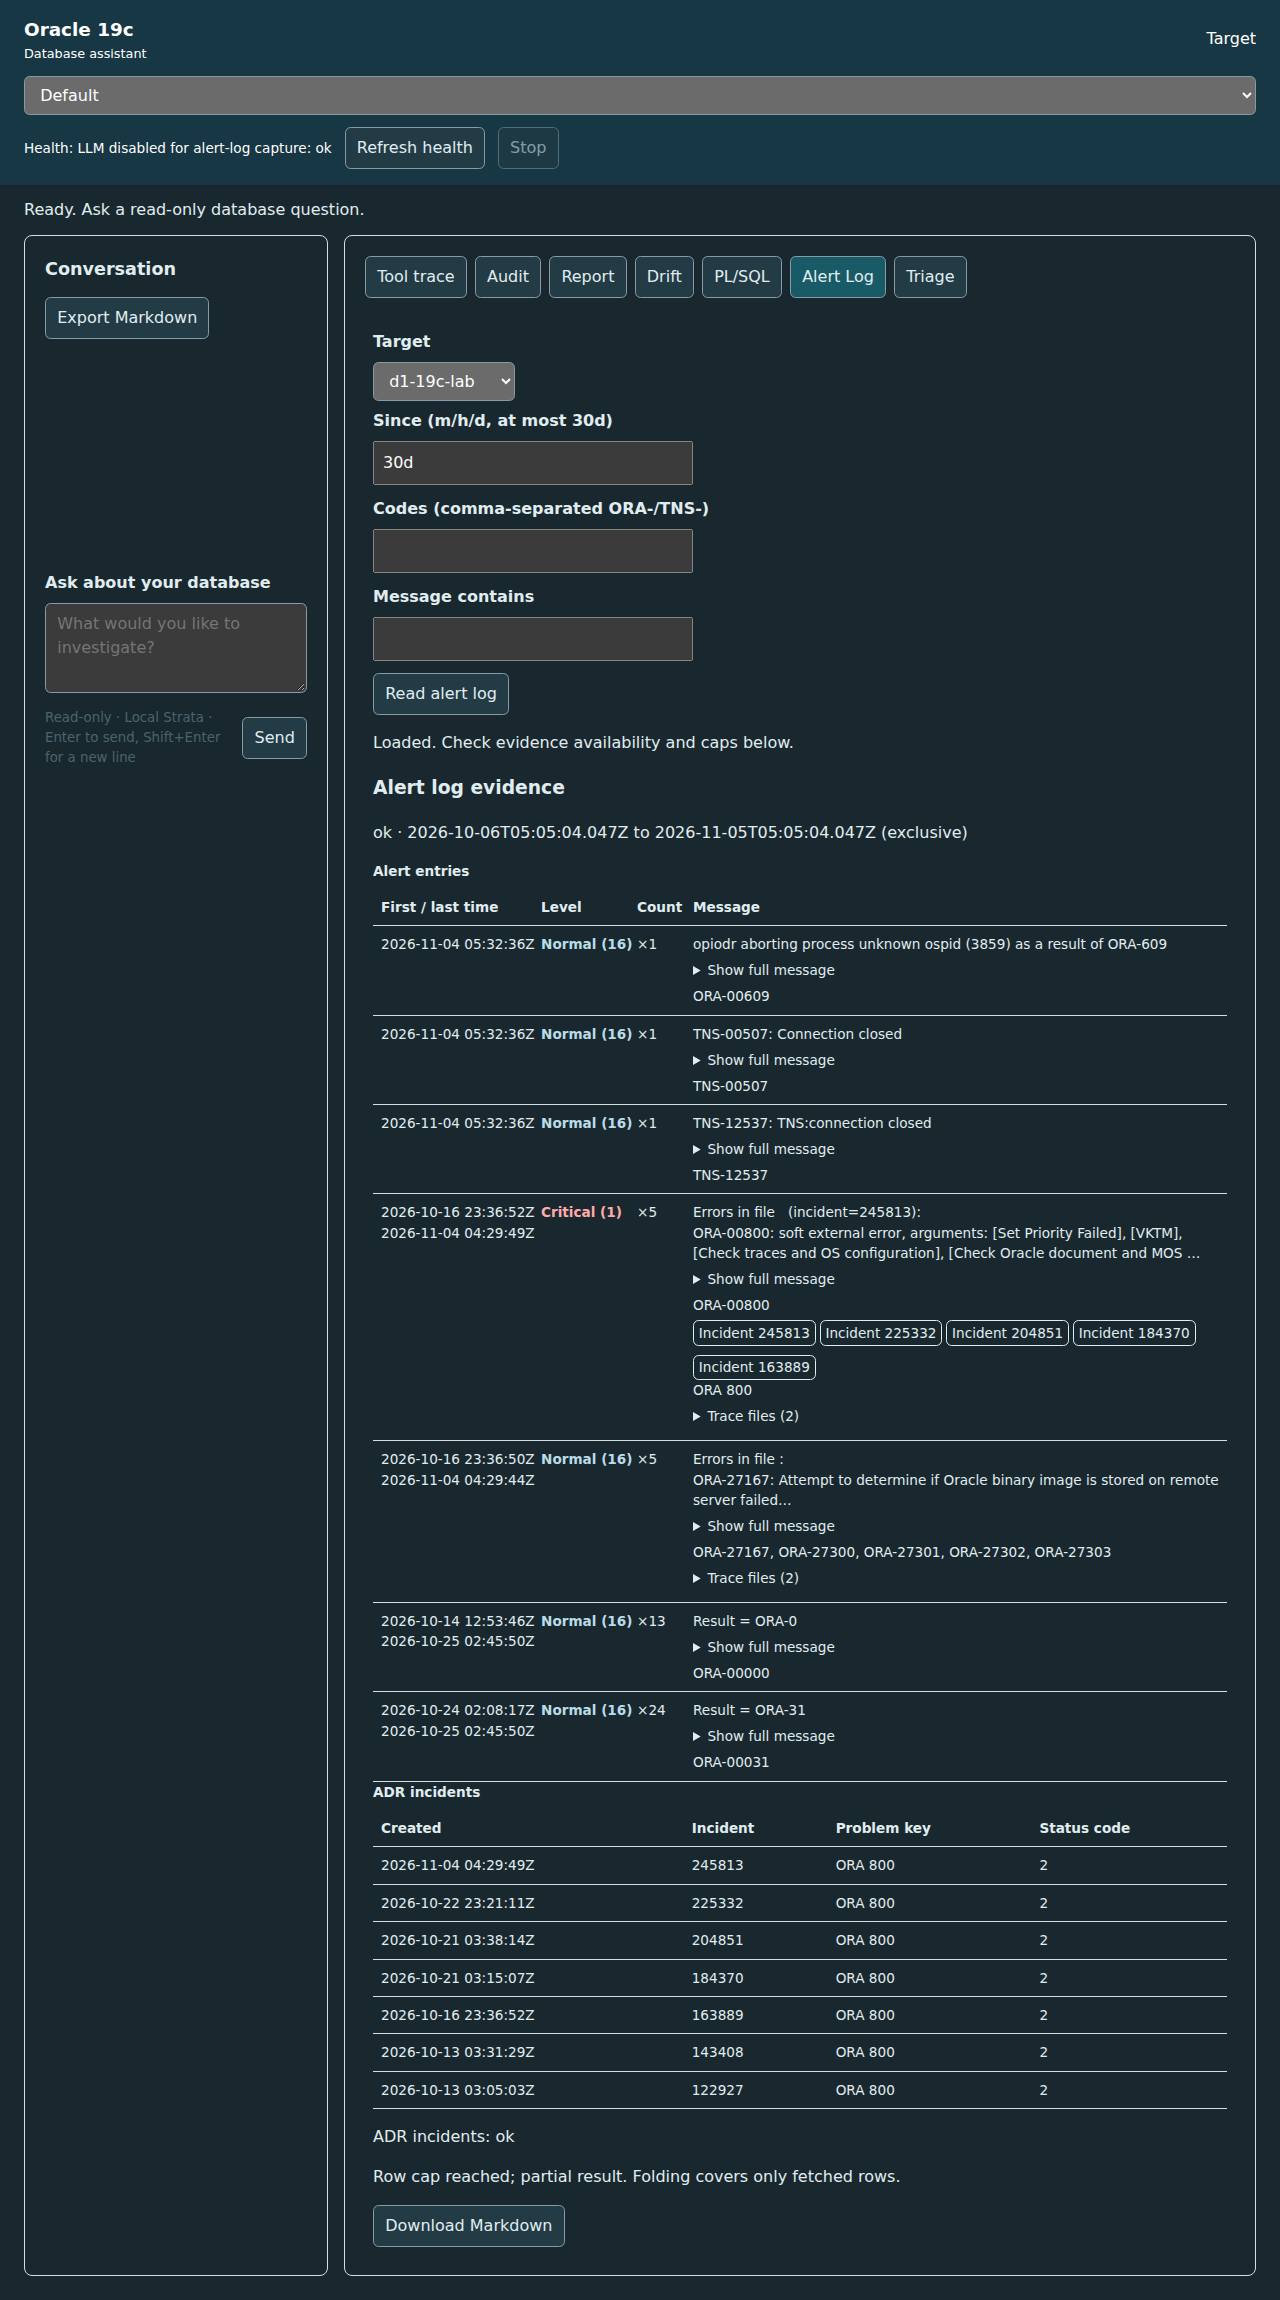
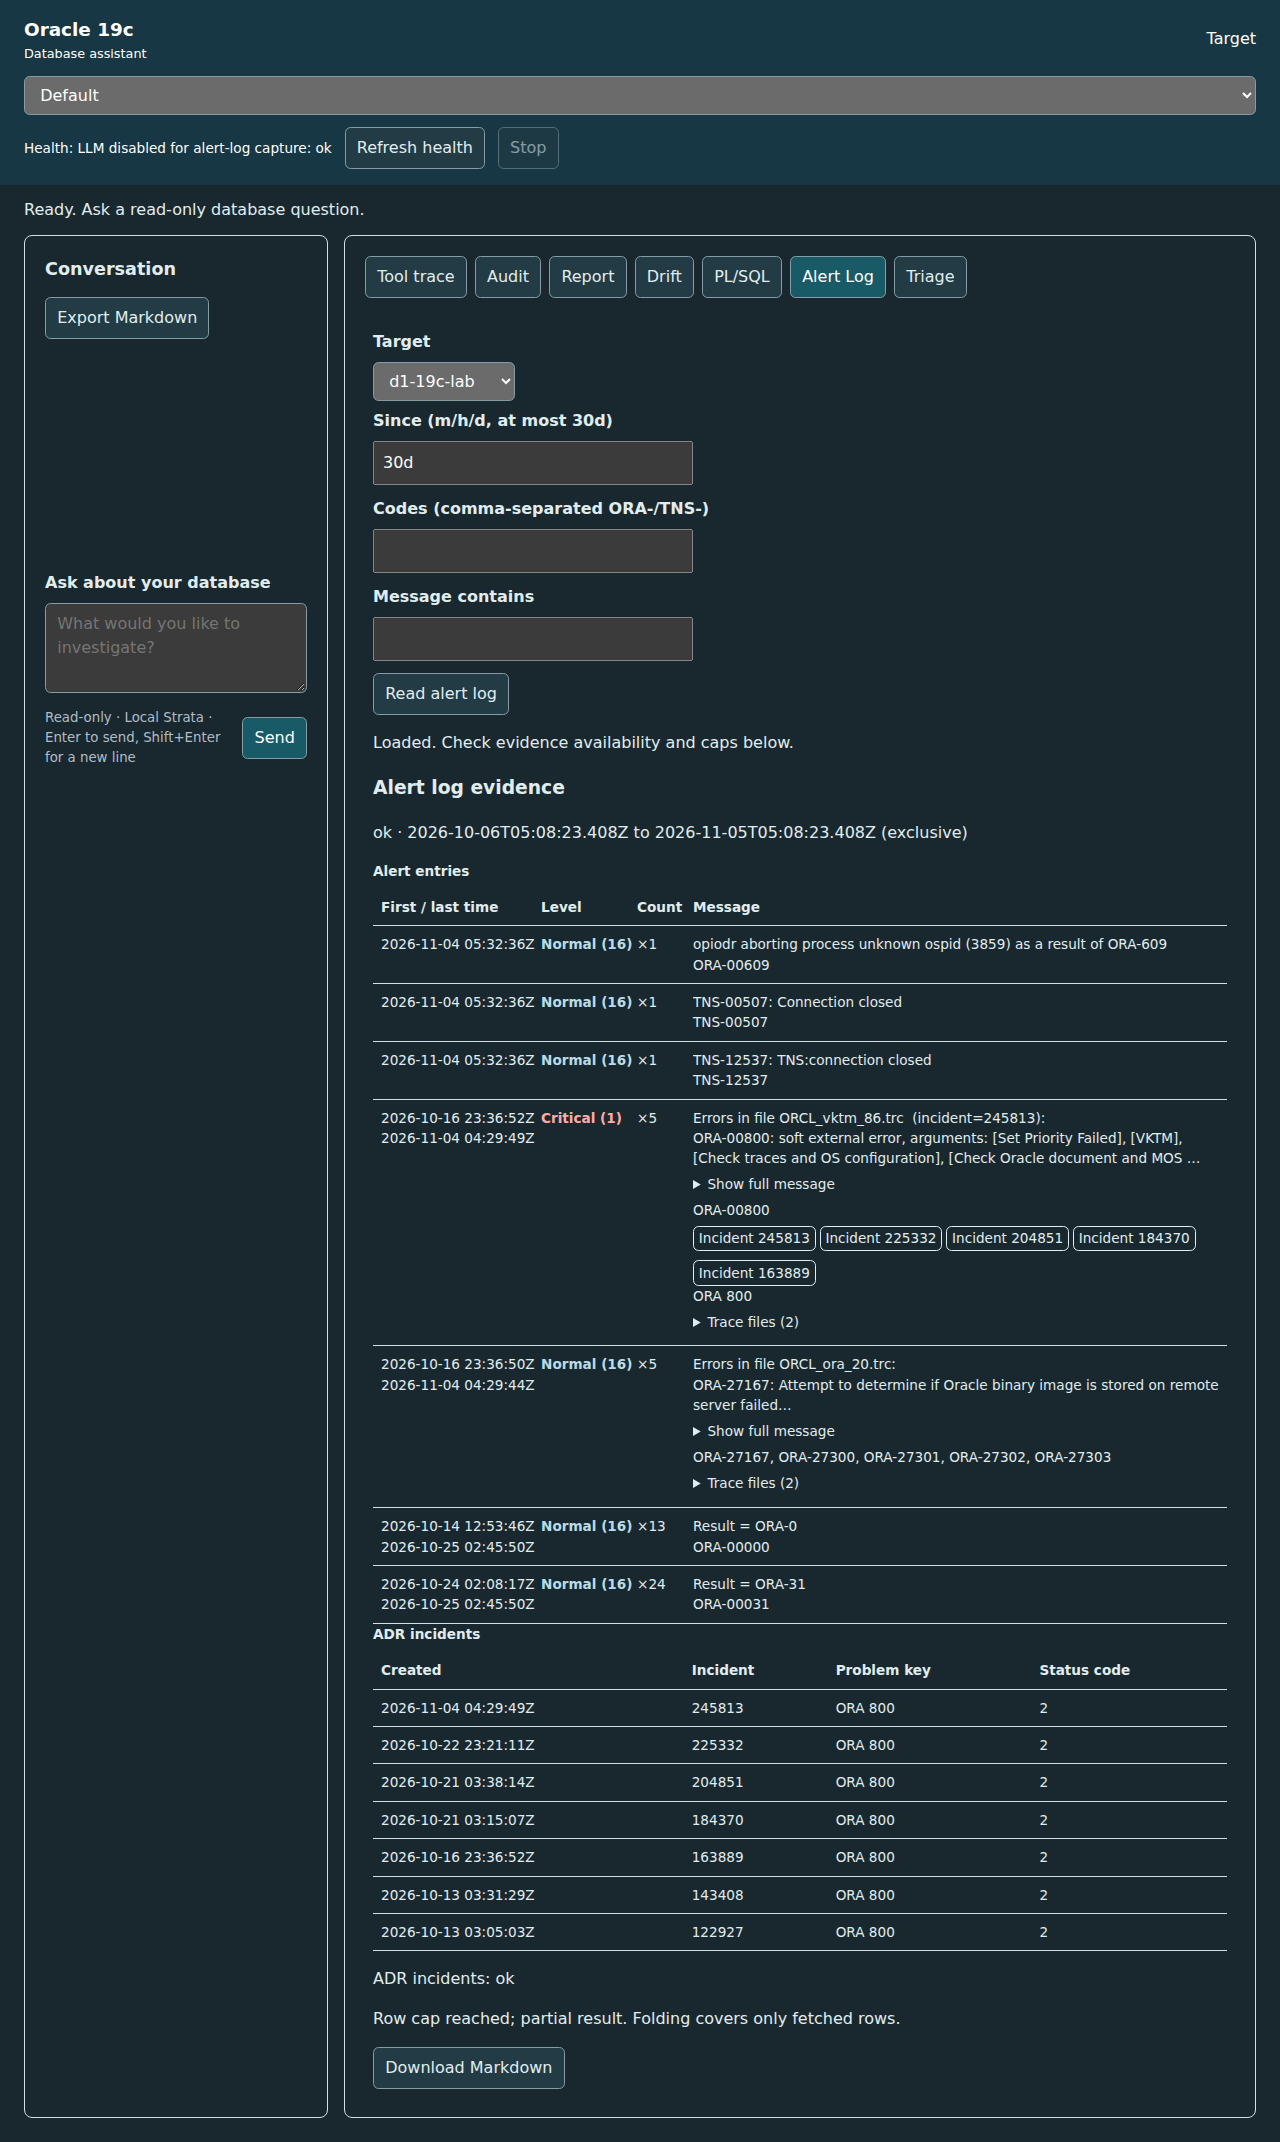
fix(web): preserve trace basenames and share dark shell across tabs

diff --git a/tests/browser/alertlog.spec.ts b/tests/browser/alertlog.spec.ts
@@ -106,3 +106,51 @@ for (const width of [1280, 390]) test(`message disclosure, compact traces, cappe
 		expect(columns[3]).toBeGreaterThan(columns[0]! + columns[1]! + columns[2]!);
 	}
 });
+
+test('trace basenames stay in messages and disclosure tracks actual overflow on resize', async ({ page }) => {
+	await page.setViewportSize({ width: 1280, height: 900 });
+	await page.goto(process.env.PIAGENT_BROWSER_URL!);
+	await page.route('**/api/alertlog?*', async route => {
+		const response = await route.fetch(); const body = await response.json();
+		const base = body.entries.rows[0];
+		body.entries.rows = [
+			{ ...base, messageText: 'Errors in file /opt/oracle/diag/PRODCDB_j005_704.trc:', traceFiles: ['/opt/oracle/diag/PRODCDB_j005_704.trc'] },
+			{ ...base, messageText: 'word '.repeat(40), traceFiles: [] },
+		];
+		await route.fulfill({ json: body });
+	});
+	await page.locator('#alertlog-tab').click(); await page.locator('#alertlog-run').click();
+	const messages = page.locator('#alertlog-content .alert-message');
+	await expect(messages.first().locator('.alert-message-preview')).toHaveText('Errors in file PRODCDB_j005_704.trc:');
+	await expect(messages.first().locator('.alert-full-message')).toBeHidden();
+	await expect(messages.nth(1).locator('.alert-full-message')).toBeHidden();
+	await page.setViewportSize({ width: 390, height: 844 });
+	await expect(messages.nth(1).locator('.alert-full-message')).toBeVisible();
+	await expect(messages.first().locator('.alert-full-message')).toBeHidden();
+	await page.locator('#plsql-tab').click(); await page.locator('#alertlog-tab').click();
+	await expect(messages.nth(1).locator('.alert-full-message')).toBeVisible();
+	await page.setViewportSize({ width: 1280, height: 900 });
+	await expect(messages.nth(1).locator('.alert-full-message')).toBeHidden();
+});
+
+test('every evidence tab has the same dark shell, including PL/SQL', async ({ page }) => {
+	await page.setViewportSize({ width: 1280, height: 1000 });
+	await page.emulateMedia({ colorScheme: 'dark' });
+	await page.goto(process.env.PIAGENT_BROWSER_URL!);
+	for (const tab of ['trace', 'audit', 'report', 'drift', 'plsql', 'triage', 'alertlog']) {
+		await page.locator(`#${tab}-tab`).click();
+		for (const selector of ['html', 'body', '.chat', '.evidence', '[role="tablist"]']) {
+			expect(await page.locator(selector).evaluate(node => getComputedStyle(node).backgroundColor)).toBe('rgb(25, 40, 46)');
+		}
+	}
+	await page.locator('#plsql-tab').click();
+	await page.locator('#plsql-owner').fill('WORKLOAD_FIXTURE');
+	await page.locator('#plsql-run').click();
+	await expect(page.locator('#plsql-object option')).toHaveCount(1);
+	await page.locator('#plsql-doc').click();
+	await expect(page.locator('#plsql-content .graph-scroll > svg')).toBeVisible();
+	if (process.env.PIAGENT_ALERTLOG_CAPTURE_FIXTURE === '1') {
+		await mkdir('docs/img', { recursive: true });
+		await page.screenshot({ path: 'docs/img/plsql-dark-shell.png', fullPage: true });
+	}
+});

diff --git a/src/web/static/app.css b/src/web/static/app.css
@@ -105,20 +105,19 @@ td:nth-child(2) { max-width: 24rem; }
 @media (min-width: 801px) {
 	main:has(#alertlog-tab[aria-selected="true"]), main:has(#triage-panel:not([hidden]) .alert-evidence) { grid-template-columns: minmax(12rem, 1fr) minmax(0, 3fr); }
 }
-/* Other tabs also only themed their inner panels. Scope the shell fix to alert views. */
+/* Shared dark shell for every evidence tab and the conversation. */
 @media (prefers-color-scheme: dark) {
-	:root:has(#alertlog-tab[aria-selected="true"]), :root:has(#triage-panel:not([hidden]) .alert-evidence) {
+	:root {
 		color-scheme: dark; color: #e0edf0; background: #19282e;
-		--alert-surface: #19282e; --alert-fill: #223b45; --alert-text: #e0edf0;
+		--surface: #19282e; --surface-fill: #223b45; --surface-text: #e0edf0;
 	}
-	body:has(#alertlog-tab[aria-selected="true"]), body:has(#triage-panel:not([hidden]) .alert-evidence) {
-		background: var(--alert-surface); color: var(--alert-text);
-	}
-	body:has(#alertlog-tab[aria-selected="true"]) section, body:has(#triage-panel:not([hidden]) .alert-evidence) section { background: var(--alert-surface); }
-	body:has(#alertlog-tab[aria-selected="true"]) [role="tablist"], body:has(#triage-panel:not([hidden]) .alert-evidence) [role="tablist"] { background: var(--alert-surface); }
-	body:has(#alertlog-tab[aria-selected="true"]) button, body:has(#triage-panel:not([hidden]) .alert-evidence) button { background: var(--alert-fill); color: var(--alert-text); }
-	body:has(#alertlog-tab[aria-selected="true"]) button[aria-selected="true"], body:has(#triage-panel:not([hidden]) .alert-evidence) button[aria-selected="true"] { background: #185b67; }
-	.alert-message small { color: #b0bdc8; }
+	body { background: var(--surface); color: var(--surface-text); }
+	section, [role="tablist"] { background: var(--surface); }
+	button { background: var(--surface-fill); color: var(--surface-text); }
+	button[aria-selected="true"], #send { background: #185b67; }
+	.message { background: var(--surface-fill); }
+	small { color: #b0bdc8; }
+	.unverified { color: #ffd080; }
 }
 @media (max-width: 800px) {
 	.alert-entries { display: block; min-width: 0 !important; }

diff --git a/src/web/static/alertlog.js b/src/web/static/alertlog.js
@@ -36,6 +36,14 @@ function compactTime(value) {
 	const date = new Date(value);
 	return Number.isNaN(date.getTime()) ? value : date.toISOString().replace('T', ' ').replace(/\.\d{3}Z$/, 'Z');
 }
+// Recheck the rendered clamp when a hidden tab opens or its available width changes.
+const messageObserver = new ResizeObserver(entries => {
+	for (const { target: preview } of entries) {
+		if (!preview.isConnected) { messageObserver.unobserve(preview); continue; }
+		const full = preview.nextElementSibling;
+		if (!full.open && preview.clientHeight) full.hidden = preview.scrollHeight <= preview.clientHeight + 1;
+	}
+});
 function messageCell(row) {
 	const cell = el('div', undefined, 'alert-message');
 	const traces = [...new Set((row.traceFiles || [row.traceFile]).filter(Boolean))];
@@ -44,12 +52,15 @@ function messageCell(row) {
 		if (!traces.includes(match[0])) traces.push(match[0]);
 	}
 	let text = row.messageText;
-	for (const path of traces) text = text.replaceAll(path, '');
+	for (const path of [...traces].sort((a, b) => b.length - a.length)) text = text.replaceAll(path, path.split(/[\\/]/).pop());
 	text = text.replace(/[ \t]+$/gm, '').replace(/\n{3,}/g, '\n\n').trim();
-	cell.append(el('div', text || '(Trace file reference)', 'alert-message-preview'));
+	const preview = el('div', text || '(Trace file reference)', 'alert-message-preview');
+	cell.append(preview);
 	const full = el('details', undefined, 'alert-full-message');
+	full.hidden = true;
 	full.append(el('summary', 'Show full message'), el('div', text, 'alert-message-text'));
 	cell.append(full);
+	messageObserver.observe(preview);
 	if (row.codes.length) cell.append(el('div', row.codes.join(', '), 'alert-codes'));
 	const ids = [...new Set(row.incidentIds || (row.incidentId ? [row.incidentId] : []))];
 	const badges = el('div', undefined, 'incident-badges');

diff --git a/docs/web-ui.md b/docs/web-ui.md
@@ -403,8 +403,9 @@ WP-18C visual-review follow-up:
   Alert evidence uses a wider desktop evidence pane. Timestamps omit milliseconds,
   preserve exact ISO values in their titles, and show last time on a second line
   only when it differs from first time.
-- Messages have a three-line preview and a native **Show full message** disclosure.
-  Trace paths are removed from message text and collected in a separate collapsed
+- Messages have a three-line preview and a native **Show full message** disclosure
+  only when the rendered preview overflows. Trace paths are replaced with basenames
+  in message text and collected in a separate collapsed
   **Trace files (N)** list. Items show basenames with full paths in their titles.
   Markdown exports retain the reader's complete bounded evidence.
 - Incident badges wrap inline, with at most five followed by **+N more**.
@@ -412,9 +413,11 @@ WP-18C visual-review follow-up:
 - The white surround was a stylesheet issue, not a screenshot media-setting issue:
   existing PL/SQL/Triage dark rules themed their inner panels but the root, section
   and tab bar retained light backgrounds. The fix uses the existing dark colours
-  (`#19282e`, `#223b45`, `#e0edf0`) for the page, section and tab shell only while
-  Alert Log or a Triage panel containing alert evidence is visible. Other tab views
-  keep their prior styling.
+  (`#19282e`, `#223b45`, `#e0edf0`) for the page, section and tab shell across
+  **every tab**, including PL/SQL, and the conversation. The initial alert-scoped
+  version was broadened after coordinator review.
+  [PL/SQL dark shell screenshot](img/plsql-dark-shell.png) uses the WORKLOAD
+  browser fixture at a 1280px viewport; no LLM or DB access is needed.
 - Desktop screenshots above were retaken with a **1280px viewport**, now including
   the full page to show the shell. [390px phone capture](img/alertlog-p1-19c-prod-phone.png)
   uses stacked alert entries and has no horizontal page scroll. The ADR table can
@@ -429,3 +432,20 @@ WP-18C visual-review follow-up:
   five-badge cap, Message width, compact timestamps, Status code, dark shell colours,
   and no page overflow at 1280px and 390px. No DB or LLM code changed and no LLM
   calls were made; no contract changes are needed.
+
+Final visual follow-up:
+
+- Trace references preserve their basenames inline (for example,
+  `Errors in file PRODCDB_j005_704.trc:`); full paths remain in trace-list titles.
+- A ResizeObserver checks actual preview overflow, including tab activation and
+  viewport resizing. Short messages have no full-message toggle. The three-line
+  preview gains a toggle only when clipped; the separate text-cap note still
+  reports upstream reader truncation independently.
+- The dark shell now applies globally across all seven evidence tabs and the
+  conversation. A browser test checks root/body, both sections and the tab bar
+  on each tab; the PL/SQL screenshot above confirms the WORKLOAD fixture view.
+- Validation: `npm run typecheck` passed; `npm test` passed all 1,071 tests;
+  `PIAGENT_ALERTLOG_CAPTURE_FIXTURE=1 npm run test:browser` passed 36 tests,
+  with the 2 opt-in live tests skipped. The separate Oracle-only capture test
+  passed on both targets, refreshed the five live images and stopped its server
+  by listening PID. No DB/LLM code or contracts changed; no LLM calls were made.
